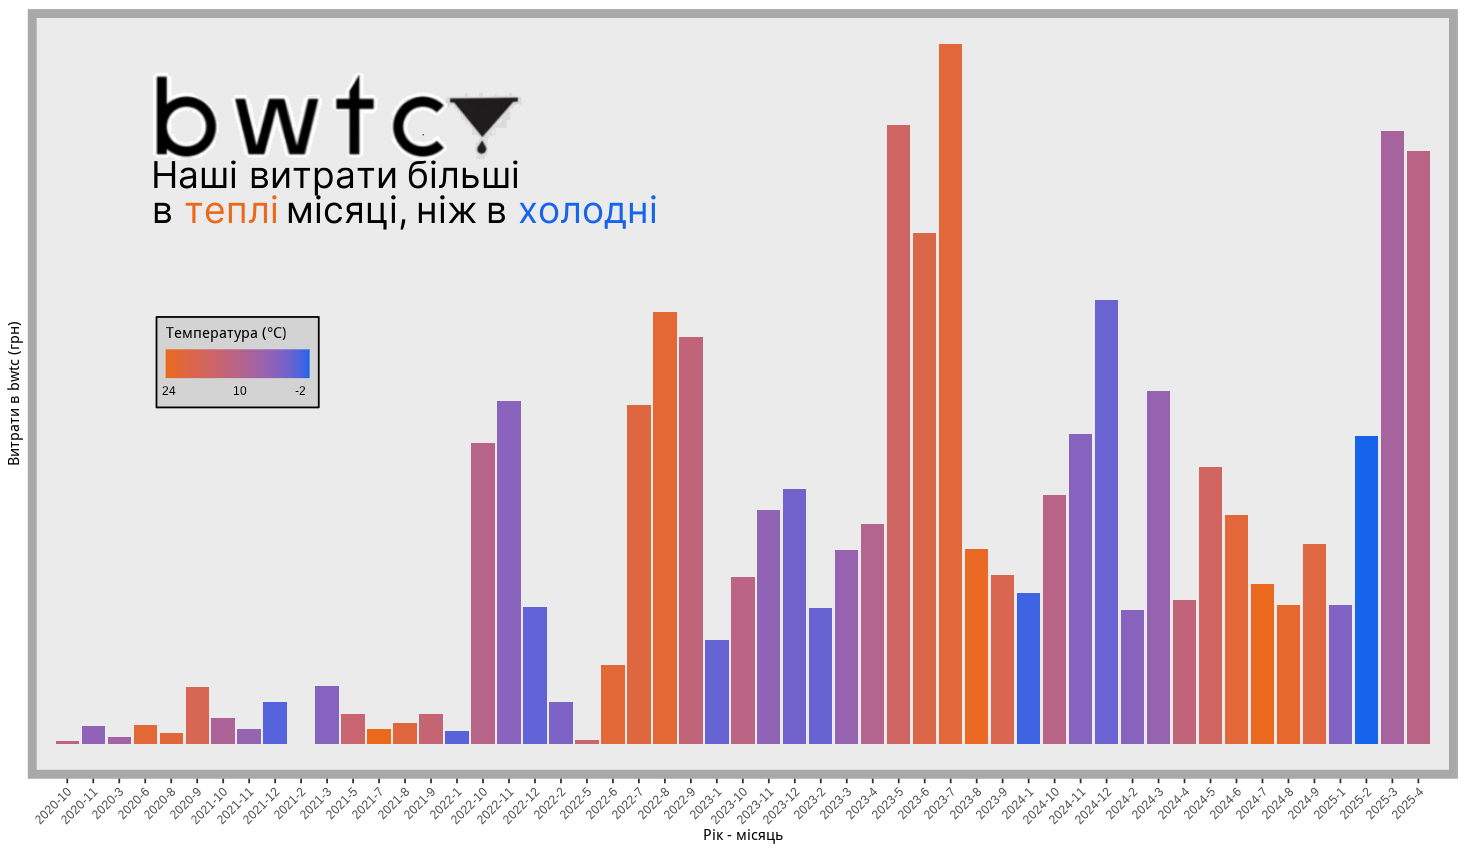
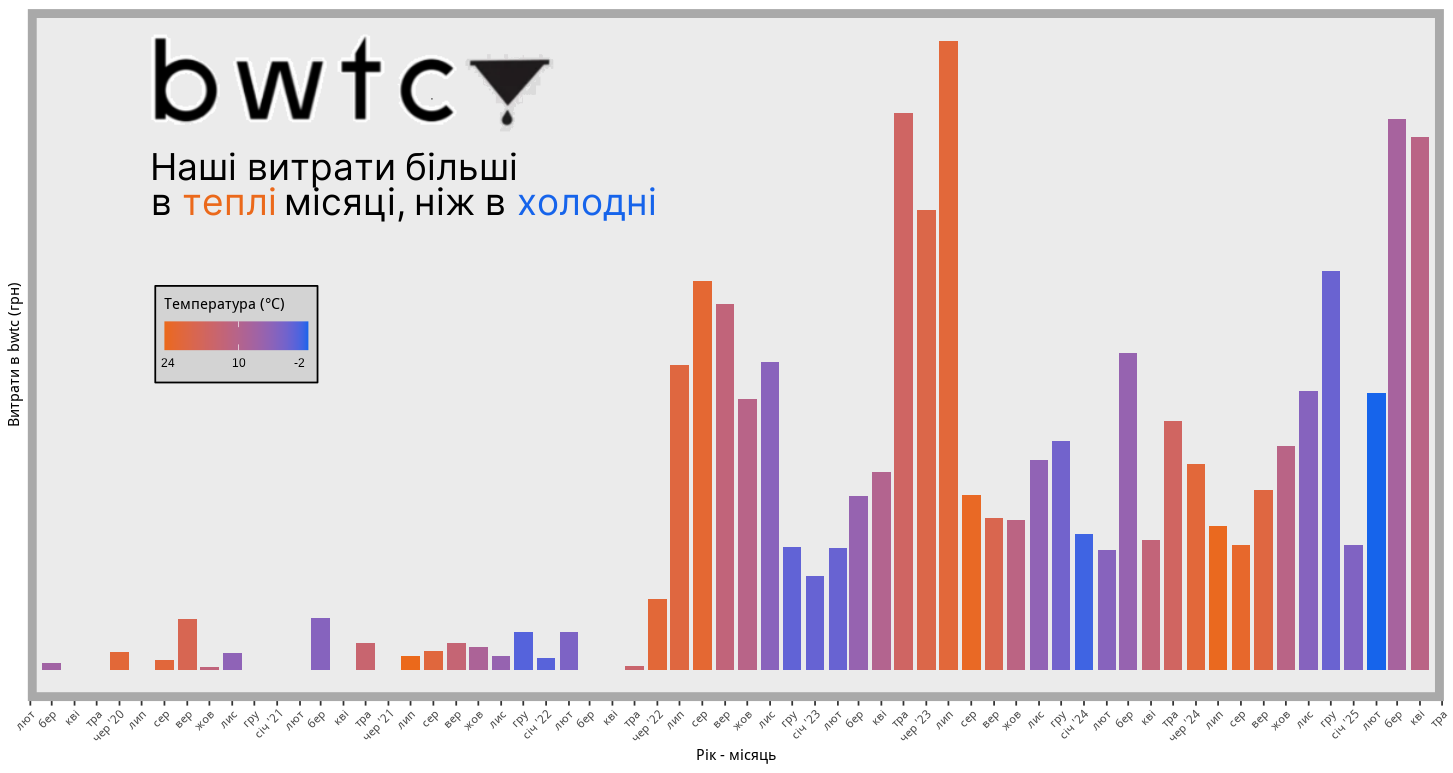
update mono charts

diff --git a/_site/posts/practical/practical.html b/_site/posts/practical/practical.html
@@ -407,7 +407,7 @@ window.document.addEventListener("DOMContentLoaded", function (event) {
   }
     var localhostRegex = new RegExp(/^(?:http|https):\/\/localhost\:?[0-9]*\//);
     var mailtoRegex = new RegExp(/^mailto:/);
-      var filterRegex = new RegExp('/' + window.location.host + '/');
+      var filterRegex = new RegExp("https:\/\/eprykhodko\.quarto\.pub\/30daychartchallenge-2025");
     var isInternal = (href) => {
         return filterRegex.test(href) || localhostRegex.test(href) || mailtoRegex.test(href);
     }
